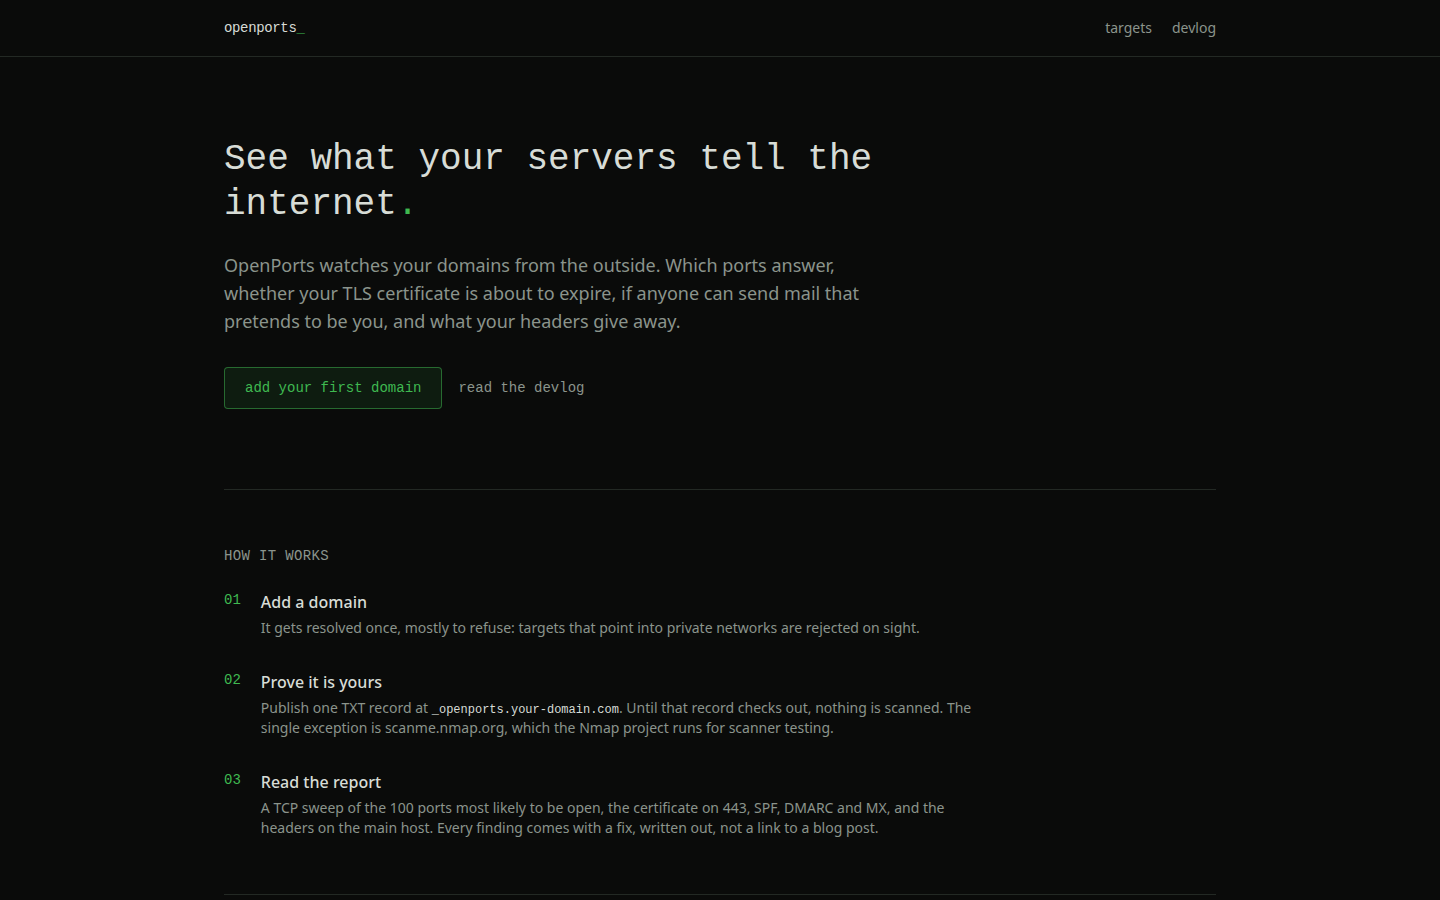
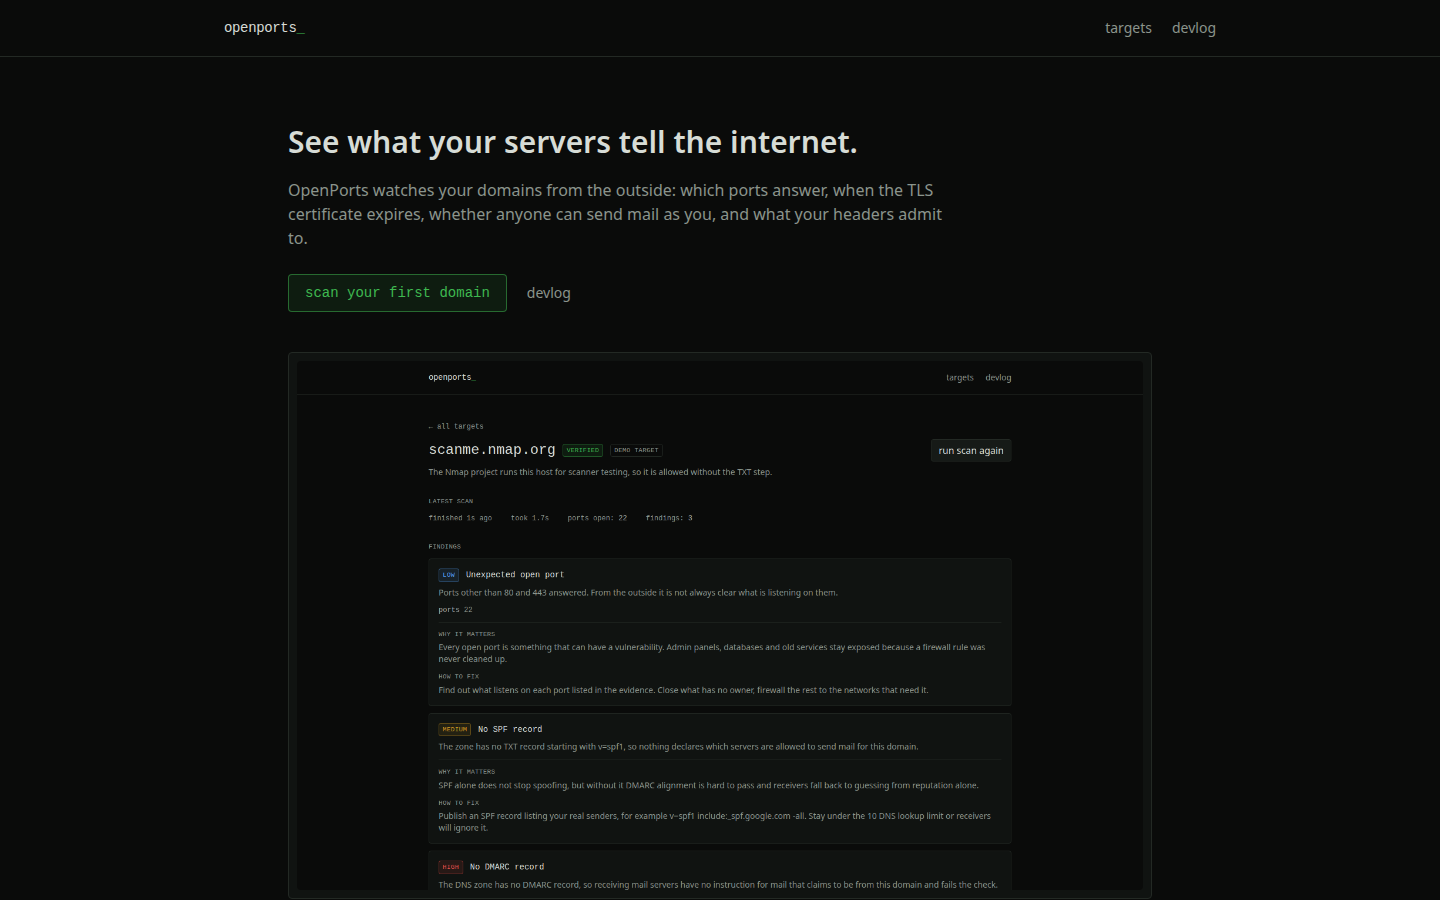
rework landing after critique: show a real report, drop the numbered steps

diff --git a/src/app/page.tsx b/src/app/page.tsx
@@ -9,108 +9,86 @@ export const metadata: Metadata = {
 
 export default function Home() {
   return (
-    <main className="mx-auto max-w-5xl px-4">
-      <section className="py-20">
-        <h1 className="max-w-2xl font-mono text-4xl leading-tight text-ink">
-          See what your servers tell the internet<span className="text-accent">.</span>
+    <main className="mx-auto max-w-4xl px-4">
+      <section className="pt-16 pb-10">
+        <h1 className="max-w-2xl text-3xl font-semibold leading-snug text-ink">
+          See what your servers tell the internet.
         </h1>
-        <p className="mt-6 max-w-2xl text-lg text-muted">
-          OpenPorts watches your domains from the outside. Which ports answer,
-          whether your TLS certificate is about to expire, if anyone can send
-          mail that pretends to be you, and what your headers give away.
+        <p className="mt-4 max-w-2xl text-muted">
+          OpenPorts watches your domains from the outside: which ports answer,
+          when the TLS certificate expires, whether anyone can send mail as
+          you, and what your headers admit to.
         </p>
-        <div className="mt-8 flex flex-wrap items-center gap-4">
+        <div className="mt-6 flex items-center gap-5">
           <Link
             href="/app"
-            className="rounded border border-accent/50 bg-accent/10 px-5 py-2.5 font-mono text-sm text-accent hover:bg-accent/20"
+            className="rounded border border-accent/50 bg-accent/10 px-4 py-2 font-mono text-sm text-accent hover:bg-accent/20"
           >
-            add your first domain
+            scan your first domain
           </Link>
           <a
             href="https://github.com/xenoaitham/openports"
-            className="font-mono text-sm text-muted hover:text-ink"
+            className="text-sm text-muted hover:text-ink"
           >
-            read the devlog
+            devlog
           </a>
         </div>
       </section>
 
-      <section className="border-t border-line py-14">
-        <h2 className="font-mono text-sm uppercase tracking-wide text-muted">
-          how it works
-        </h2>
-        <ol className="mt-6 max-w-3xl space-y-8">
-          <li className="flex gap-5">
-            <span className="font-mono text-sm text-accent">01</span>
-            <div>
-              <h3 className="font-medium text-ink">Add a domain</h3>
-              <p className="mt-1 text-sm text-muted">
-                It gets resolved once, mostly to refuse: targets that point
-                into private networks are rejected on sight.
-              </p>
-            </div>
-          </li>
-          <li className="flex gap-5">
-            <span className="font-mono text-sm text-accent">02</span>
-            <div>
-              <h3 className="font-medium text-ink">Prove it is yours</h3>
-              <p className="mt-1 text-sm text-muted">
-                Publish one TXT record at{" "}
-                <code className="font-mono text-xs text-ink">
-                  _openports.your-domain.com
-                </code>
-                . Until that record checks out, nothing is scanned. The single
-                exception is scanme.nmap.org, which the Nmap project runs for
-                scanner testing.
-              </p>
-            </div>
-          </li>
-          <li className="flex gap-5">
-            <span className="font-mono text-sm text-accent">03</span>
-            <div>
-              <h3 className="font-medium text-ink">Read the report</h3>
-              <p className="mt-1 text-sm text-muted">
-                A TCP sweep of the 100 ports most likely to be open, the
-                certificate on 443, SPF, DMARC and MX, and the headers on the
-                main host. Every finding comes with a fix, written out, not a
-                link to a blog post.
-              </p>
-            </div>
-          </li>
-        </ol>
+      <section>
+        <figure className="rounded border border-line bg-panel p-2">
+          <img
+            src="/report-sample.png"
+            alt="OpenPorts report for scanme.nmap.org: one unexpected open port, no SPF record, no DMARC record"
+            className="w-full rounded-sm"
+          />
+        </figure>
+        <p className="mt-2 font-mono text-xs text-muted">
+          a real report from this build: scanme.nmap.org, 2026-09-18. the nmap
+          project leaves that host open to scanning on purpose. results shift a
+          little between runs, more on that in the devlog.
+        </p>
       </section>
 
-      <section className="border-t border-line py-14">
-        <h2 className="font-mono text-sm uppercase tracking-wide text-muted">
-          what a scan looks at
-        </h2>
-        <ul className="mt-6 grid max-w-3xl gap-2 font-mono text-sm text-muted sm:grid-cols-2">
-          <li>open ports, connect sweep only, no service probing</li>
-          <li>TLS certificate issuer and expiry date</li>
-          <li>SPF, DMARC and MX records</li>
-          <li>HSTS, http to https redirect, server banner</li>
-        </ul>
-      </section>
-
-      <section className="border-t border-line py-14">
-        <div className="max-w-3xl rounded border border-line bg-panel p-6">
-          <h2 className="font-mono text-sm text-ink">the honest part</h2>
-          <ul className="mt-3 list-disc space-y-2 pl-5 text-sm text-muted">
-            <li>
-              There are no accounts yet. Anything added to this instance is
-              visible to everyone holding the URL.
-            </li>
-            <li>
-              The scanner is a monitor, not an attack tool. It completes TCP
-              handshakes and reads what servers volunteer. It never exploits
-              anything.
-            </li>
-            <li>
-              One process, one SQLite file. That is deliberate until the boring
-              way stops working.
-            </li>
-          </ul>
+      <section className="py-10">
+        <h2 className="text-sm font-medium text-ink">How it works</h2>
+        <div className="mt-3 max-w-2xl space-y-3 text-sm text-muted">
+          <p>
+            You add a domain. It gets resolved once, mostly to say no: anything
+            pointing into private address space is rejected before it is even
+            stored.
+          </p>
+          <p>
+            You prove the domain is yours by publishing one TXT record at{" "}
+            <code className="font-mono text-xs text-ink">
+              _openports.your-domain.com
+            </code>
+            . Nothing is port scanned before that record checks out. The single
+            exception is scanme.nmap.org, which the nmap project runs for
+            scanner testing.
+          </p>
+          <p>
+            Then it sweeps the 100 ports most likely to be open, reads the
+            certificate on 443, checks SPF, DMARC and MX, and looks at the
+            headers on the main host. Every finding ships with a fix in plain
+            sentences, not a link to a blog post.
+          </p>
         </div>
+      </section>
+
+      <section className="border-t border-line py-8">
+        <h2 className="text-sm font-medium text-ink">Limits</h2>
+        <ul className="mt-3 max-w-2xl list-disc space-y-2 pl-5 text-sm text-muted">
+          <li>No accounts yet. Anyone with the URL sees every target here.</li>
+          <li>
+            This is a monitor, not an attack tool. It completes TCP handshakes
+            and reads what servers volunteer. It never exploits anything.
+          </li>
+          <li>
+            One process, one SQLite file, one scan at a time. Deliberate, until
+            the boring way stops working.
+          </li>
+        </ul>
       </section>
     </main>
   );
